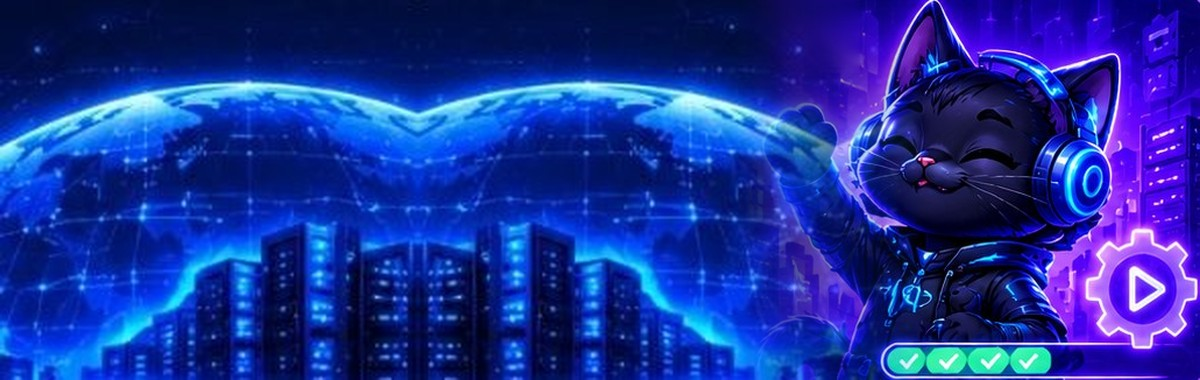
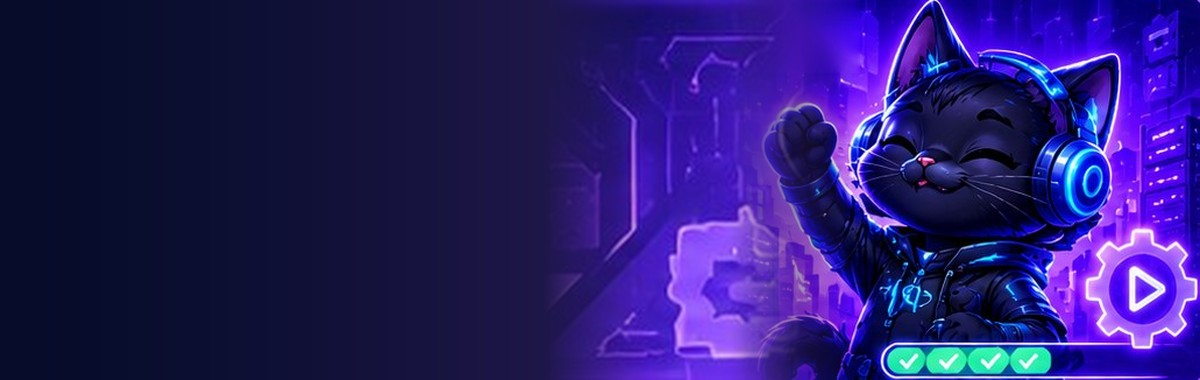
Header fitur: latar & ikon sesuai fitur (bukan kota biru)
Claude-Session: https://claude.ai/code/session_015hewfDjhn4yL2CpnWUptwK

diff --git a/app/globals.css b/app/globals.css
@@ -1305,3 +1305,8 @@ main { padding-top: 0; }
   .adegan-text { max-width: 62%; }
   .adegan h1 { font-size: 26px; }
 }
+@media (max-width: 860px) {
+  .adegan-art { object-position: 100% 30%;
+    -webkit-mask-image: linear-gradient(90deg, transparent 0, rgba(0,0,0,.25) 35%, #000 70%), linear-gradient(0deg, transparent 0, #000 20%);
+    mask-image: linear-gradient(90deg, transparent 0, rgba(0,0,0,.25) 35%, #000 70%), linear-gradient(0deg, transparent 0, #000 20%); }
+}
